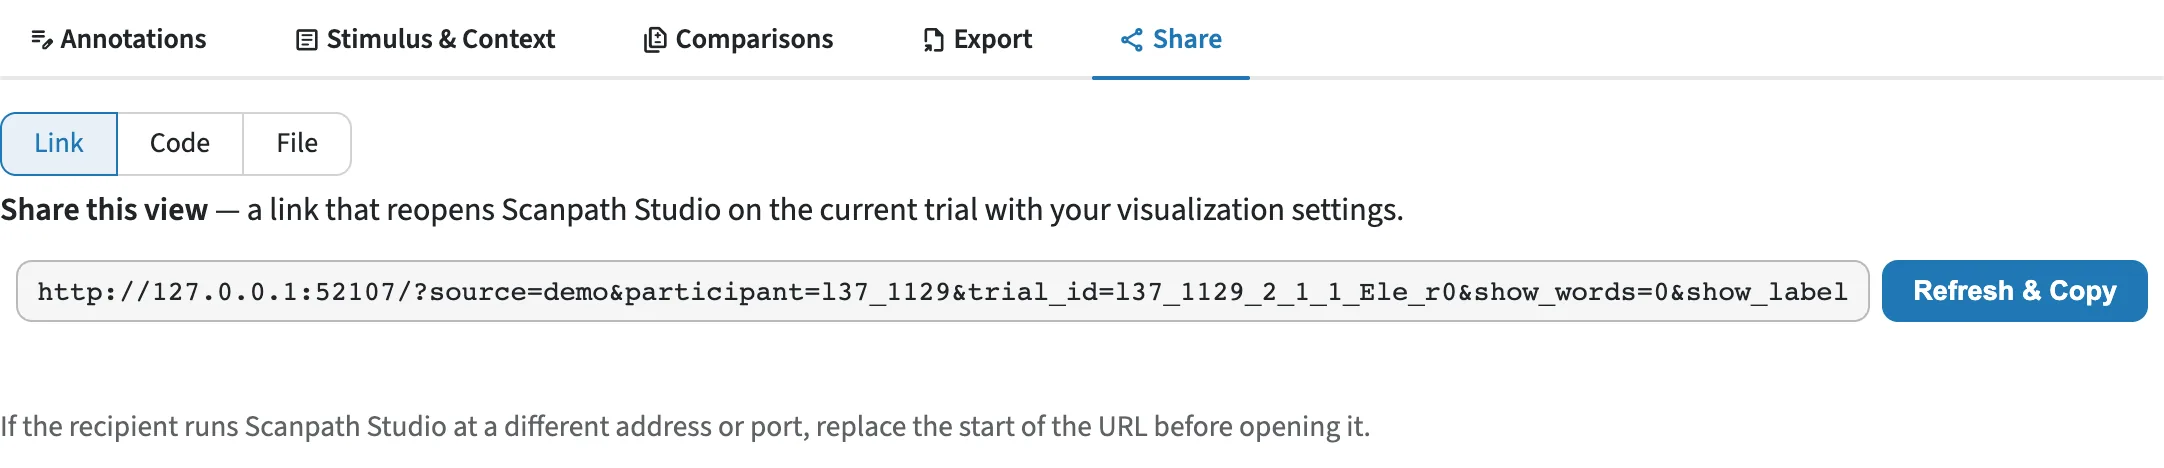
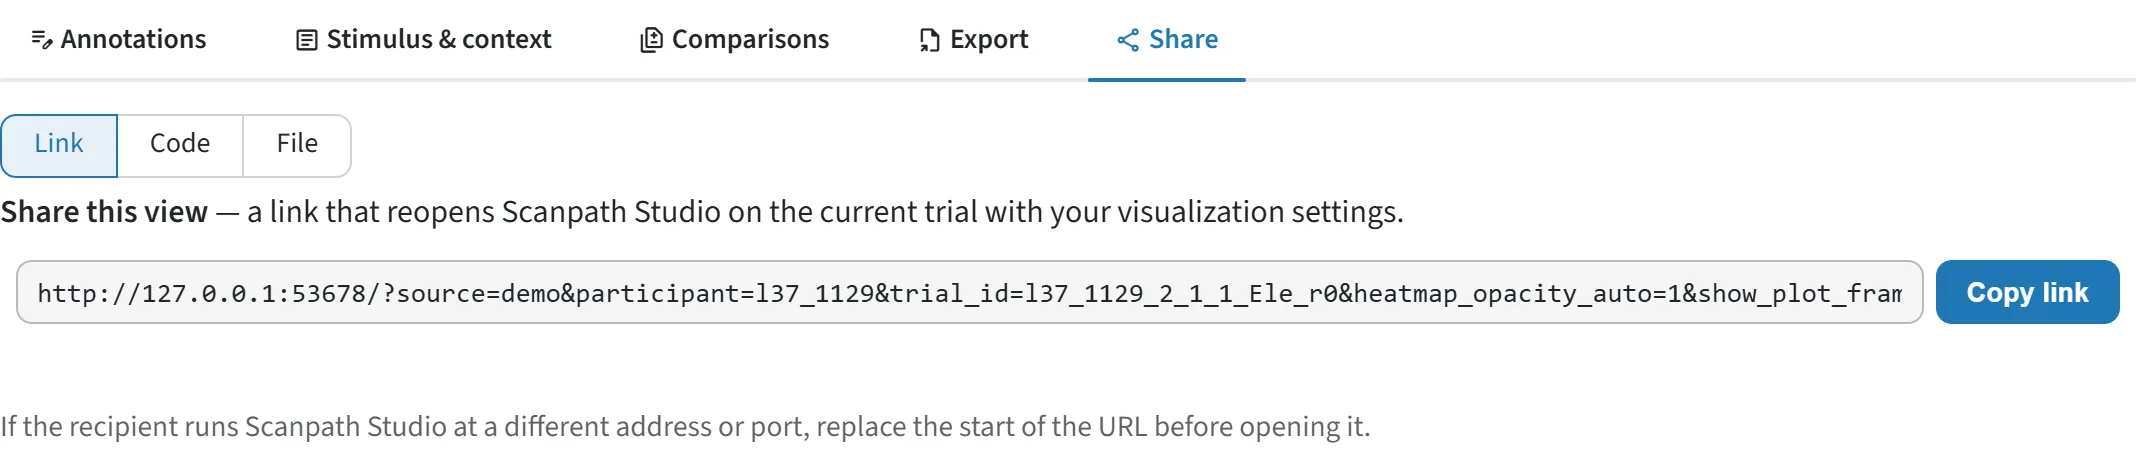
Docs: each feature guide opens with its screenshot; screenshots retaken
Export, Share, Corpus Analysis and Data Management are retaken on the current app. The numbered overview now comes only from --overview, so a full run no longer replaces it with the demo.

diff --git a/scripts/capture_docs_screenshots.py b/scripts/capture_docs_screenshots.py
@@ -161,14 +161,8 @@ def capture(page: Page) -> None:
     ui.deep_link(page, ui.DEMO_TRIAL)
     ui.reset_viz(page)
 
-    print("scanpath view")
-    page.evaluate(CALLOUT_JS, [list(c) for c in SCANPATH_CALLOUTS])
-    page.wait_for_timeout(300)
-    ui.shot(page, "scanpath-view")
-    _webp("scanpath-view")
-    page.evaluate(
-        "() => document.querySelectorAll('.docs-callout').forEach(e => e.remove())"
-    )
+    # The numbered overview (scanpath-view) is `--overview`'s: it needs a
+    # dataset with screens, which the demo is not.
 
     print("export and share")
     tabs = page.locator('[data-testid="stTabs"]').first

diff --git a/docs/guides/scanpath-visualization/index.md b/docs/guides/scanpath-visualization/index.md
@@ -1,13 +1,5 @@
 # Scanpath visualization
 
-The Scanpath view draws one reading on the screen it was recorded on.
-
-!!! tip "Looking for a specific button?"
-
-    [All controls](controls.md) lists every button and setting on this view,
-    menu by menu, with a picture of each menu. Search it for what you want to
-    change, such as *saccade color* or *legend position*.
-
 <figure class="sps-screenshot" markdown>
 ![The Scanpath view, its regions numbered](../../assets/screenshots/scanpath-view.webp)
 </figure>
@@ -18,6 +10,14 @@ The Scanpath view draws one reading on the screen it was recorded on.
 4. The figure.
 5. Plot controls.
 6. Annotations, Stimulus & context, Comparisons, Export and Share.
+
+The Scanpath view draws one reading on the screen it was recorded on.
+
+!!! tip "Looking for a specific button?"
+
+    [All controls](controls.md) lists every button and setting on this view,
+    menu by menu, with a picture of each menu. Search it for what you want to
+    change, such as *saccade color* or *legend position*.
 
 ## Choose a trial
 

diff --git a/docs/guides/corpus-workspace/index.md b/docs/guides/corpus-workspace/index.md
@@ -1,14 +1,14 @@
 # Corpus Analysis
 
+<figure class="sps-screenshot" markdown>
+![Corpus Analysis, Per text: each participant's total fixation duration on every word of one text, against the cohort mean](../../assets/screenshots/corpus-analysis.webp)
+</figure>
+
 **:material/bar_chart: Corpus Analysis** summarizes many trials at once. It uses the same
 dataset and trial filters as the Scanpath view. The line beside the dataset
 picker counts what those filters keep (for example *12 of 24 trials · 1 of 2
 participants*) and names each active filter. **Edit filters** opens the Scanpath
 view's filter panel, and **Clear** resets every filter.
-
-<figure class="sps-screenshot" markdown>
-![Corpus Analysis, Per text: each participant's total fixation duration on every word of one text, against the cohort mean](../../assets/screenshots/corpus-analysis.webp)
-</figure>
 
 ## Reading measures come from your data
 

diff --git a/docs/guides/outputs-sharing.md b/docs/guides/outputs-sharing.md
@@ -1,5 +1,9 @@
 # Outputs and sharing
 
+<figure class="sps-screenshot" markdown>
+![The Export subtab: the current figure, and the bundle's trials, formats, tables and file naming](../assets/screenshots/export.webp)
+</figure>
+
 ## Export
 
 Open the **Export** subtab in the Scanpath view.
@@ -28,10 +32,6 @@ Open the **Export** subtab in the Scanpath view.
   name, for scripts that work across datasets. File-name, title and caption
   patterns accept either name: `{RECORDING_SESSION_LABEL}` and
   `{participant_id}` both work.
-
-<figure class="sps-screenshot" markdown>
-![The Export subtab: the current figure, and the bundle's trials, formats, tables and file naming](../assets/screenshots/export.webp)
-</figure>
 
 HTML, and the current figure's PNG and SVG, always work. An HTML file from the
 app loads the Plotly library from the internet when opened, unless you tick

diff --git a/docs/guides/loading-data/index.md b/docs/guides/loading-data/index.md
@@ -1,5 +1,9 @@
 # Loading public and own data
 
+<figure class="sps-screenshot" markdown>
+![The Data Management page: the available datasets, and the counts and tables of the open one](../../assets/screenshots/data-page.webp)
+</figure>
+
 ## Choose a source
 
 Open the dataset picker above the plot, or the :material/database: **Data Management** page.
@@ -132,7 +136,3 @@ Columns keep the names they have in your files, so a column uploaded as
 plot controls, a mapped field is named by its role (*Participant*, *Duration
 (ms)*), with your column's name in its tooltip. A column marked *(computed)* is
 one Scanpath Studio derived, such as a saccade's amplitude.
-
-<figure class="sps-screenshot" markdown>
-![The Data Management page: the available datasets, and the counts and tables of the open one](../../assets/screenshots/data-page.webp)
-</figure>
